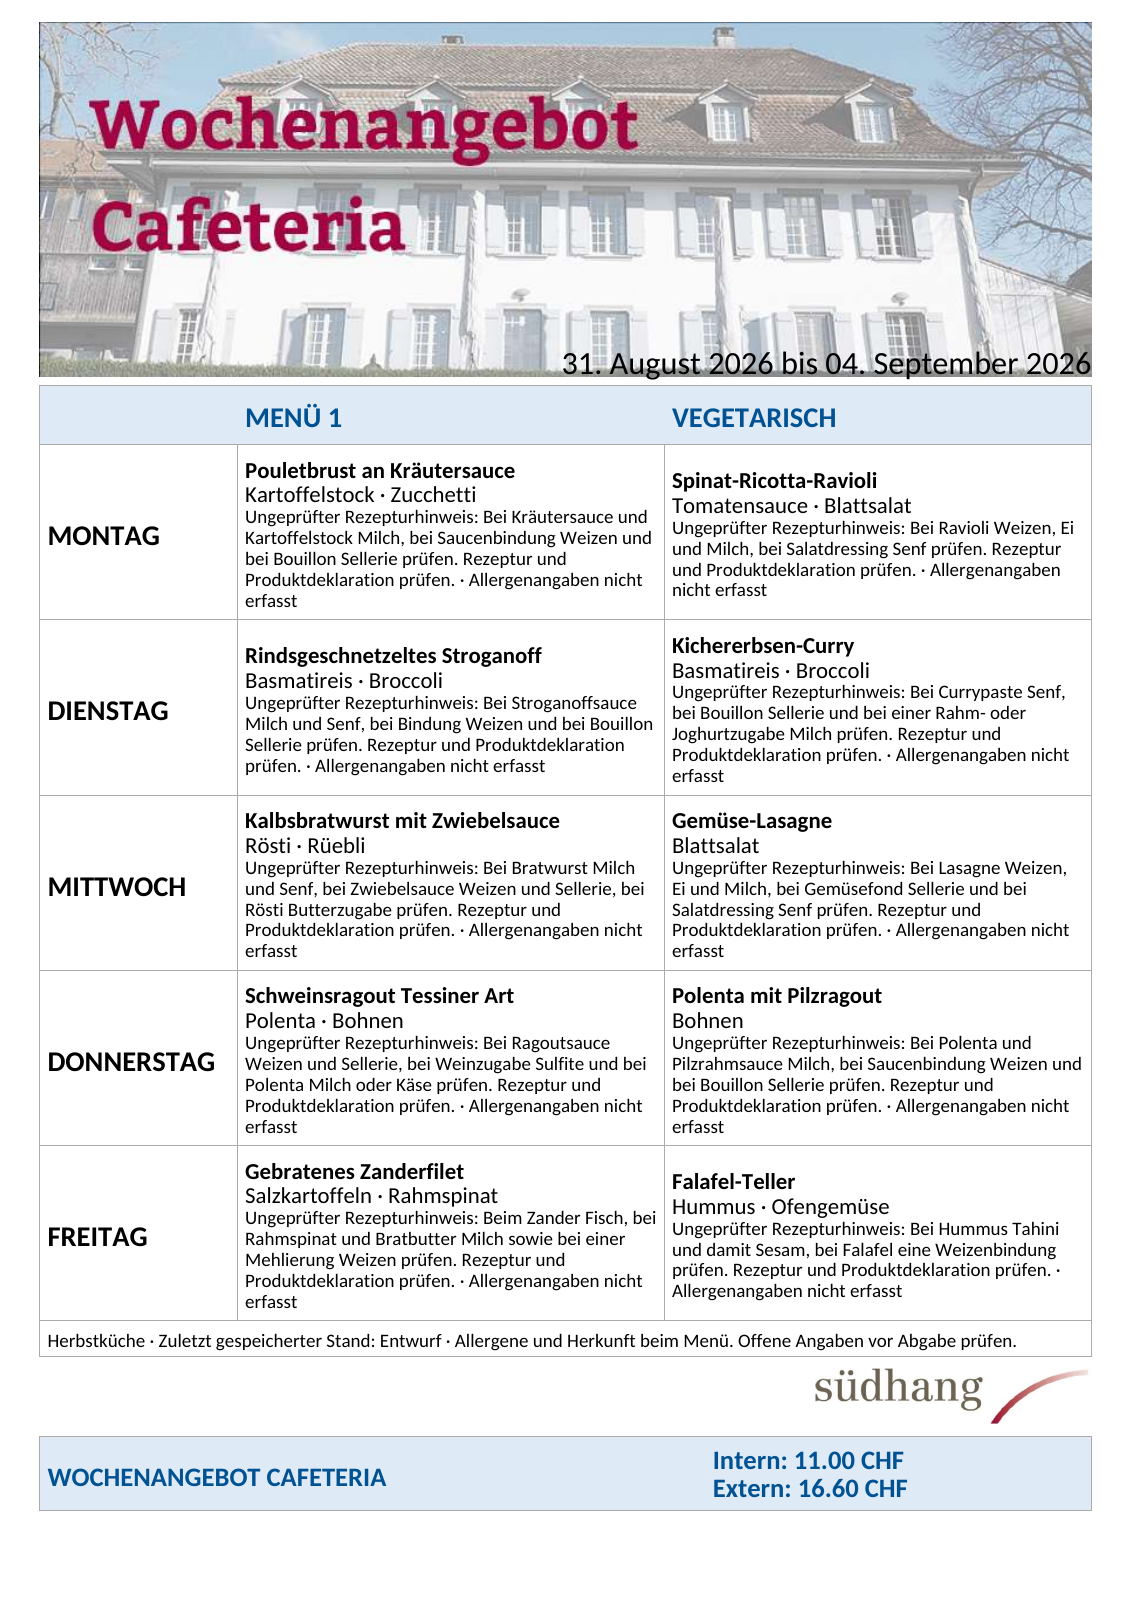
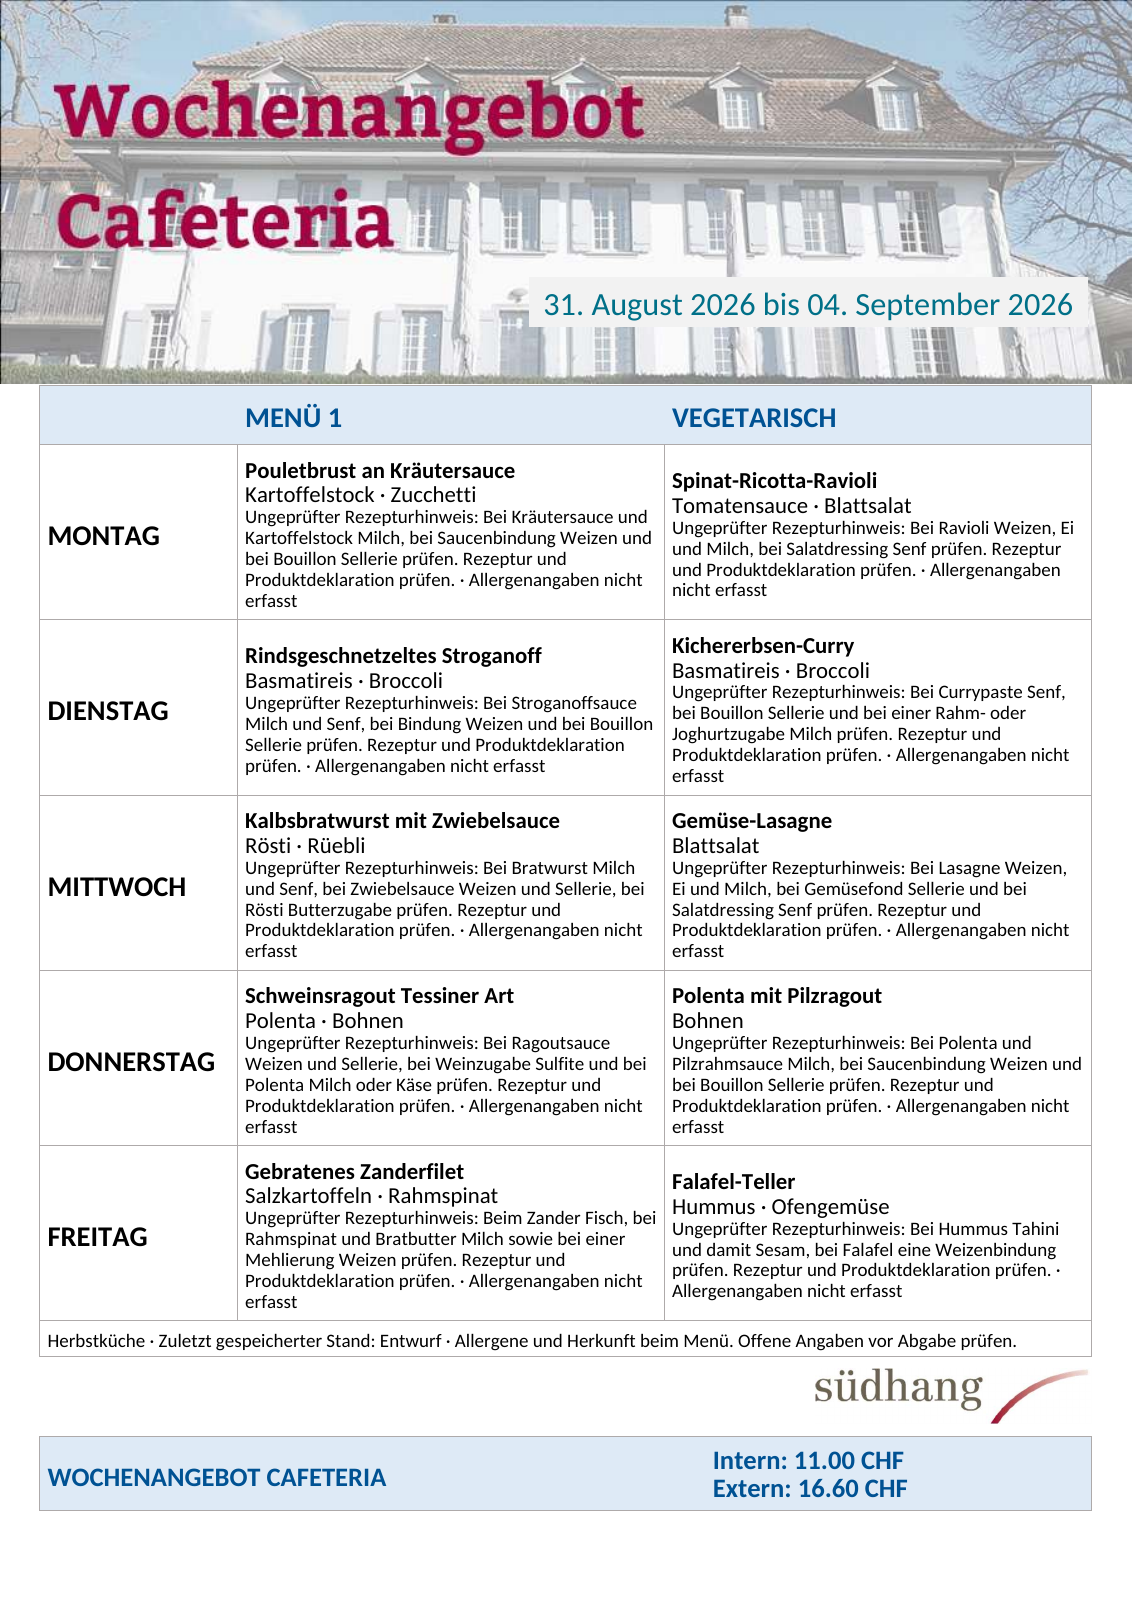
fix: match cafeteria PDF reference header geometry

Changed region(s): [[0.0, 0.0, 1.0, 0.25]]

diff --git a/reference_scaffold/tests/test_week_pdf.py b/reference_scaffold/tests/test_week_pdf.py
@@ -4,7 +4,7 @@ import json
 import re
 import subprocess
 import xml.etree.ElementTree as ET
-from datetime import date
+from datetime import date, timedelta
 from io import BytesIO
 from pathlib import Path
 from typing import Any
@@ -130,3 +130,43 @@ def test_unsupported_glyph_is_rejected_instead_of_silently_dropped() -> None:
     draft['days'][0]['services'][0]['options'][0]['note'] = 'Hinweis 🥜'
     with pytest.raises(WeekPdfFitError, match='Druckschrift'):
         render_week_pdf(draft, 'patient', WEEK)
+
+
+@pytest.mark.parametrize('week', [date(2026, 9, 7), WEEK])
+def test_cafeteria_header_matches_reference_geometry(week: date, tmp_path: Path) -> None:
+    draft = saved_week('staff_guest', False)
+    for offset, day in enumerate(draft['days']):
+        day['date'] = (week + timedelta(days=offset)).isoformat()
+    payload = render_week_pdf(draft, 'staff_guest', week)
+    page = PdfReader(BytesIO(payload)).pages[0]
+    width, height = float(page.mediabox.width), float(page.mediabox.height)
+    operations = page.get_contents().operations
+    first_image = next(i for i, (_, operator) in enumerate(operations) if operator == b'Do')
+    image_matrix = next(args for args, operator in reversed(operations[:first_image]) if operator == b'cm')
+    # Measured from the supplied reference: full-bleed photo ending at y=201.96pt.
+    assert [float(value) for value in image_matrix] == pytest.approx(
+        [width, 0, 0, 201.96, 0, height - 201.96], abs=0.02,
+    )
+    first_text = next(i for i, (_, operator) in enumerate(operations) if operator == b'Tj')
+    date_color = next(args for args, operator in reversed(operations[:first_text]) if operator == b'rg')
+    assert [float(value) for value in date_color] == pytest.approx([0, 112 / 255, 136 / 255], abs=0.001)
+    strips = [
+        args for i, (args, operator) in enumerate(operations)
+        if operator == b're' and operations[i + 1][1] == b'f'
+    ]
+    strip = next(args for args in strips if abs(height - float(args[1]) - 145.56) < 0.02)
+    x, bottom, strip_width, negative_height = (float(value) for value in strip)
+    assert x + strip_width == pytest.approx(572.28, abs=0.02)
+    assert negative_height == pytest.approx(-26.28, abs=0.02)
+    assert strip_width >= 250.43
+    if week.month == (week + timedelta(days=4)).month:
+        assert x == pytest.approx(321.84, abs=0.02)
+    path = tmp_path / 'reference-header.pdf'
+    path.write_bytes(payload)
+    result = subprocess.run(['pdftotext', '-bbox', str(path), '-'], capture_output=True, check=True, text=True)
+    words = ET.fromstring(result.stdout).findall('.//{http://www.w3.org/1999/xhtml}word')
+    date_words = [word for word in words if float(word.attrib['yMax']) < 203]
+    assert date_words
+    for word in date_words:
+        assert x <= float(word.attrib['xMin']) < float(word.attrib['xMax']) <= x + strip_width
+        assert height - bottom <= float(word.attrib['yMin']) < float(word.attrib['yMax']) <= height - bottom - negative_height

diff --git a/reference_scaffold/cafeteria/admin/week_pdf.py b/reference_scaffold/cafeteria/admin/week_pdf.py
@@ -17,6 +17,8 @@ BLUE = (0, 82, 147)
 FILL = (222, 234, 246)
 BORDER = (174, 170, 170)
 INK = (0, 0, 0)
+DATE_BLUE = (0, 112, 136)
+DATE_FILL = (242, 242, 242)
 LEFT = 21.0
 PAD = 4.0
 
@@ -184,10 +186,15 @@ def render_week_pdf(draft: dict[str, Any], profile: str, week: date) -> bytes:
         _draw(pdf, Block([_date_label(week, True)], 11), LEFT, 37)
         pdf.image(ASSETS / 'img/weekly-print-logo.jpg', pdf.w - LEFT - 145, 17, w=145)
     else:
-        pdf.image(ASSETS / 'img/weekly-print-header.jpg', LEFT, 12, w=width)
-        pdf.set_text_color(*INK)
+        pdf.image(ASSETS / 'img/weekly-print-header.jpg', 0, 0, w=pdf.w, h=201.96)
         date_block = _wrap(pdf, _date_label(week, False), width, 17)
-        _draw(pdf, date_block, pdf.w - LEFT - pdf.get_string_width(date_block.lines[0]), 180)
+        # Reference strip geometry; longer month-crossing dates extend it left.
+        strip_width = max(250.44, pdf.get_string_width(date_block.lines[0]) + 15.12)
+        strip_x = 572.28 - strip_width
+        pdf.set_fill_color(*DATE_FILL)
+        pdf.rect(strip_x, 145.56, strip_width, 26.28, style='F')
+        pdf.set_text_color(*DATE_BLUE)
+        _draw(pdf, date_block, strip_x + 7.56, 148.84)
     pdf.set_fill_color(*FILL)
     pdf.set_draw_color(*BORDER)
     pdf.set_line_width(0.55)
